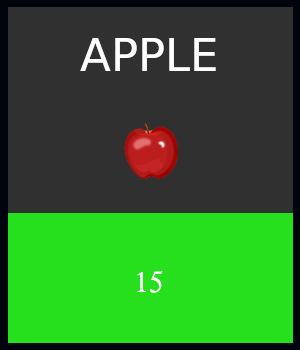
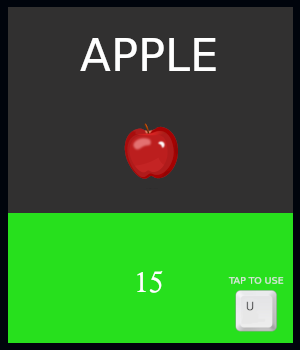
[ADD] info in inventory

Changed region(s): [[0.75, 0.7714, 0.96, 0.9714]]

diff --git a/src/inventory/move_in_inventory.c b/src/inventory/move_in_inventory.c
@@ -8,7 +8,7 @@
 #include "game_struct.h"
 #include "inventory.h"
 
-basic_object_t *init_move(inventory_t *inventory)
+void create_move(inventory_t *inventory)
 {
     inventory->move->texture = sfTexture_createFromFile
                                         ("assets/inventory/select.png", NULL);
@@ -17,36 +17,62 @@ basic_object_t *init_move(inventory_t *inventory)
     inventory->move->vector.x = 460.5;
     inventory->move->vector.y = 900;
     sfSprite_setPosition(inventory->move->sprite, inventory->move->vector);
-    return (inventory->move);
 }
 
-void create_move(inventory_t *inventory)
-{
-    inventory->move = init_move(inventory);
-}
-
-sfVector2f move_down(sfVector2f position)
+sfVector2f move_down(sfVector2f position, game_t *game)
 {
     if (sfKeyboard_isKeyPressed(sfKeyDown)) {
-        if (position.y + 100 >= 1000)
+        if (position.y + 100 >= 1000) {
             position.y = 515;
-        else if (position.y + 100 == 900)
+            game->inventory->location += 32;
+        } else if (position.y + 100 == 900) {
             position.y += 100;
-        else
+            game->inventory->location -= 8;
+        } else {
             position.y += 95;
+            game->inventory->location -= 8;
+        }
     }
     return (position);
 }
 
-sfVector2f move_up(sfVector2f position)
+sfVector2f move_up(sfVector2f position, game_t *game)
 {
     if (sfKeyboard_isKeyPressed(sfKeyUp)) {
-        if (position.y - 100 <= 500)
+        if (position.y - 100 <= 500) {
             position.y = 900;
-        else if (position.y - 100 == 800)
+            game->inventory->location -= 32;
+        } else if (position.y - 100 == 800) {
             position.y -= 100;
-        else
+            game->inventory->location += 8;
+        } else {
             position.y -= 95;
+            game->inventory->location += 8;
+        }
+    } else
+        position = move_down(position, game);
+    return (position);
+}
+
+sfVector2f move_x(sfVector2f position, game_t *game)
+{
+    if (sfKeyboard_isKeyPressed(sfKeyLeft)) {
+        if (position.x - 95 <= 365.5) {
+            position.x = 1125;
+            game->inventory->location += 7;
+        } else {
+            position.x -= 95;
+            game->inventory->location -= 1;
+        }
+    }
+    if (sfKeyboard_isKeyPressed(sfKeyRight)) {
+        if (position.x + 95 >= 1220) {
+            position.x = 460.5;
+            game->inventory->location -= 7;
+        } else {
+            position.x += 95;
+            game->inventory->location += 1;
+        }
     }
     return (position);
 }
@@ -54,23 +80,23 @@ sfVector2f move_up(sfVector2f position)
 void display_move(game_t *game)
 {
     sfVector2f position = sfSprite_getPosition(game->inventory->move->sprite);
+    static int stock = 0;
 
-    if (sfKeyboard_isKeyPressed(sfKeyLeft)) {
-        if (position.x - 95 <= 365.5)
-            position.x = 1125;
-        else
-            position.x -= 95;
-    }
-    if (sfKeyboard_isKeyPressed(sfKeyRight)) {
-        if (position.x + 95 >= 1220)
-            position.x = 460.5;
-        else
-            position.x += 95;
-    }
-    position = move_down(position);
-    position = move_up(position);
+    position = move_x(position, game);
+    position = move_up(position, game);
     sfSprite_setPosition(game->inventory->move->sprite, position);
     sfRenderWindow_drawSprite(game->window, game->inventory->move->sprite,
                                                                         NULL);
-    sfRenderWindow_display(game->window);
+    if (game->inventory->element[game->inventory->location].status == 0) {
+        if (game->inventory->element[stock].destroy_info == 1) {
+            sfTexture_destroy(game->inventory->element[stock].info->texture);
+            sfSprite_destroy(game->inventory->element[stock].info->sprite);
+            game->inventory->element[stock].destroy_info = 0;
+        }
+    } else if (game->inventory->element[game->inventory->location].status != 0){
+        stock = game->inventory->location;
+        printf("%d\n", game->inventory->location);
+        sfRenderWindow_drawSprite(game->window,
+        game->inventory->element[game->inventory->location].info->sprite, NULL);
+    }
 }

diff --git a/src/inventory/info_inventory.c b/src/inventory/info_inventory.c
@@ -1,0 +1,85 @@
+/*
+** EPITECH PROJECT, 2019
+** PROJECT-011
+** File description:
+** info_inventory.c
+*/
+
+#include "game_struct.h"
+#include "inventory.h"
+
+char *info_care_option(inventory_t *inventory, int i, char *path)
+{
+    switch (inventory->element[i].type)
+    {
+    case 10:
+        path = "assets/inventory/info_bandage.png";
+        break;
+    case 11:
+        path = "assets/inventory/info_medicalkit.png";
+        break;
+    }
+    return (path);
+}
+
+char *info_food_option(inventory_t *inventory, int i, char *path)
+{
+    switch (inventory->element[i].type)
+    {
+    case 7:
+        path = "assets/inventory/info_water.png";
+        break;
+    case 8:
+        path = "assets/inventory/info_canned.png";
+        break;
+    case 9:
+        path = "assets/inventory/info_apple.png";
+        break;
+    default:
+        path = info_care_option(inventory, i, path);
+        break;
+    }
+    return (path);
+}
+
+char *info_bullet_option(inventory_t *inventory, int i, char *path)
+{
+    switch (inventory->element[i].type)
+    {
+    case 4:
+        path = "assets/inventory/info_bullet1.png";
+        break;
+    case 5:
+        path = "assets/inventory/info_bullet2.png";
+        break;
+    case 6:
+        path = "assets/inventory/info_steak.png";
+        break;
+    default:
+        path = info_food_option(inventory, i, path);
+        break;
+    }
+    return (path);
+}
+
+char *info_arms_option(inventory_t *inventory, int i)
+{
+    char *path = NULL;
+
+    switch (inventory->element[i].type)
+    {
+    case 1:
+        path = "assets/inventory/info_ak47.png";
+        break;
+    case 2:
+        path = "assets/inventory/info_knife.png";
+        break;
+    case 3:
+        path = "assets/inventory/info_gun.png";
+        break;
+    default:
+        path = info_bullet_option(inventory, i, path);
+        break;
+    }
+    return (path);
+}

diff --git a/src/inventory/create_info_inventory.c b/src/inventory/create_info_inventory.c
@@ -1,0 +1,31 @@
+/*
+** EPITECH PROJECT, 2019
+** PROJECT-011
+** File description:
+** create_info_inventory.c
+*/
+
+#include "game_struct.h"
+#include "inventory.h"
+
+basic_object_t *init_info(inventory_t *inventory, int i)
+{
+    if (inventory->element[i].destroy_info == 1) {
+        sfTexture_destroy(inventory->element[i].info->texture);
+        sfSprite_destroy(inventory->element[i].info->sprite);
+        inventory->element[i].destroy_info = 0;
+    }
+    if (inventory->element[i].nb > 0) {
+        inventory->element[i].info->texture = sfTexture_createFromFile
+                                    (info_arms_option(inventory, i), NULL);
+        inventory->element[i].info->sprite = sfSprite_create();
+        sfSprite_setTexture(inventory->element[i].info->sprite,
+                                    inventory->element[i].info->texture, 1);
+        inventory->element[i].info->vector.x = 1250;
+        inventory->element[i].info->vector.y = 450;
+        sfSprite_setPosition(inventory->element[i].info->sprite,
+                                        inventory->element[i].info->vector);
+        inventory->element[i].destroy_info = 1;
+    }
+    return (inventory->element[i].info);
+}

diff --git a/src/inventory/event_inventory.c b/src/inventory/event_inventory.c
@@ -13,15 +13,16 @@
 #include "game_macro.h"
 #include "warlock.h"
 
-sfBool event_move(game_t *game)
+int event_move(game_t *game)
 {
     while (sfRenderWindow_pollEvent(game->window, &game->event)) {
         display_move(game);
+        sfRenderWindow_display(game->window);
         if (game->event.type == sfEvtClosed) {
-            return (false);
+            return (0);
         }
     }
-    return (true);
+    return (1);
 }
 
 sfBool pause_inventory(game_t *game)
@@ -39,11 +40,10 @@ sfBool pause_inventory(game_t *game)
             lock = false;
         if (lock == true)
             continue;
-        if (sfKeyboard_isKeyPressed(sfKeyI)) {
-            on_pause = false;
-        }
-        if (!event_move(game))
+        if ((!event_move(game)))
             return (false);
+        if (sfKeyboard_isKeyPressed(sfKeyI))
+            on_pause = false;
     }
     game->inventory->button = 0;
     return (true);

diff --git a/src/main_scene/player_attack.c b/src/main_scene/player_attack.c
@@ -10,6 +10,7 @@
 #include "starset_engine.h"
 #include "game_macro.h"
 #include "warlock.h"
+#include "inventory.h"
 
 static int limit_rate_reload(int wait)
 {
@@ -36,10 +37,12 @@ static int switch_attack(game_t *game, int *r, sfRenderWindow *window)
         if (compare(game->player.selected, "rifle") &&
         game->player.nb_magazine_rifle > 0) {
             game->player.ammo_rifle = 30;
-            game->player.nb_magazine_rifle -= 1;
+            game->player.nb_magazine_rifle -= 10;
+            game->inventory->contains[BULLET_AK47].nb -= 10;
         } else if (game->player.nb_magazine_gun >= 0) {
             game->player.ammo_gun = 11;
             game->player.nb_magazine_gun -= 1;
+            game->inventory->contains[BULLET_GUN].nb -= 10;
         }
         *r = starset_play_animation(game->player.save, "player", animation, 1);
         game->player.noise = 1.3;

diff --git a/src/main_scene/pick_object.c b/src/main_scene/pick_object.c
@@ -11,6 +11,7 @@
 #include "path.h"
 #include "game_macro.h"
 #include "render.h"
+#include "inventory.h"
 
 static void propeties_pick_object(entities_t *entities)
 {
@@ -55,9 +56,11 @@ void pick_item(game_t *game)
         return;
     if (compare(game->player.save->collision->name, "pick:ammo_rifle")) {
         game->player.nb_magazine_rifle += 1;
+        game->inventory->contains[BULLET_AK47].nb += 10;
     }
     if (compare(game->player.save->collision->name, "pick:ammo_pistol")) {
         game->player.nb_magazine_gun += 1;
+        game->inventory->contains[BULLET_GUN].nb += 11;
     }
     if (compare(game->player.save->collision->name, "pick:rifle")) {
         game->player.unlock_rifle = true;

diff --git a/include/game_struct.h b/include/game_struct.h
@@ -24,6 +24,7 @@ typedef struct check_text_s{
 typedef struct element_inventory_s {
     basic_object_t *init;
     basic_object_t *object;
+    basic_object_t *info;
     int status;
     int draw;
     sfText *number;
@@ -31,6 +32,7 @@ typedef struct element_inventory_s {
     int class;
     int nb;
     int destroy;
+    int destroy_info;
 } element_inventory_t;
 
 typedef struct contains_inventory_s {
@@ -47,6 +49,7 @@ typedef struct inventory_s {
     basic_object_t *button_all;
     basic_object_t *move;
     int button;
+    int location;
     contains_inventory_t *contains;
 } inventory_t;
 

diff --git a/src/inventory/malloc_inventory.c b/src/inventory/malloc_inventory.c
@@ -20,6 +20,9 @@ int malloc_element(inventory_t *inventory)
         inventory->element[i].object = malloc(sizeof(basic_object_t) * (40));
         if (inventory->element[i].object == NULL)
             return (84);
+        inventory->element[i].info = malloc(sizeof(basic_object_t) * (40));
+        if (inventory->element[i].info == NULL)
+            return (84);
         inventory->element[i].number = malloc(sizeof(sfText *) * (40));
         if (inventory->element[i].number == NULL)
             return (84);

diff --git a/src/inventory/create_case_element_inventory.c b/src/inventory/create_case_element_inventory.c
@@ -35,6 +35,7 @@ void create_case(inventory_t *inventory, int width)
                                                         460.5 + length, width);
         inventory->element[i].object = init_element(inventory, i,
                                                         461 + length, width);
+        inventory->element[i].info = init_info(inventory, i);
         length += 95;
         nb_element.x = 372 + length;
         sfText_setPosition(inventory->element[i].number, nb_element);

diff --git a/src/inventory/create_element_inventory.c b/src/inventory/create_element_inventory.c
@@ -45,6 +45,7 @@ int create_other(inventory_t *inventory, int width, int i)
     for (; i != all; i++) {
         inventory->element[i].object = init_element(inventory, i,
                                                         461 + length, width);
+        inventory->element[i].info = init_info(inventory, i);
         length += 95;
         nb_element.x = 372 + length;
         sfText_setPosition(inventory->element[i].number, nb_element);

diff --git a/include/inventory.h b/include/inventory.h
@@ -44,5 +44,7 @@ void destroy_inventory(game_t *game);
 sfBool pause_inventory(game_t *game);
 void create_move(inventory_t *inventory);
 void display_move(game_t *game);
+char *info_arms_option(inventory_t *inventory, int i);
+basic_object_t *init_info(inventory_t *inventory, int i);
 
 #endif

diff --git a/src/main_scene/update_object.c b/src/main_scene/update_object.c
@@ -51,8 +51,6 @@ int update_value(game_t *game)
         return (1);
     }
     pick_item(game);
-    game->inventory->contains[AK47].nb = game->player.nb_magazine_rifle;
-    game->inventory->contains[GUN].nb = game->player.nb_magazine_gun;
     return (0);
 }
 
